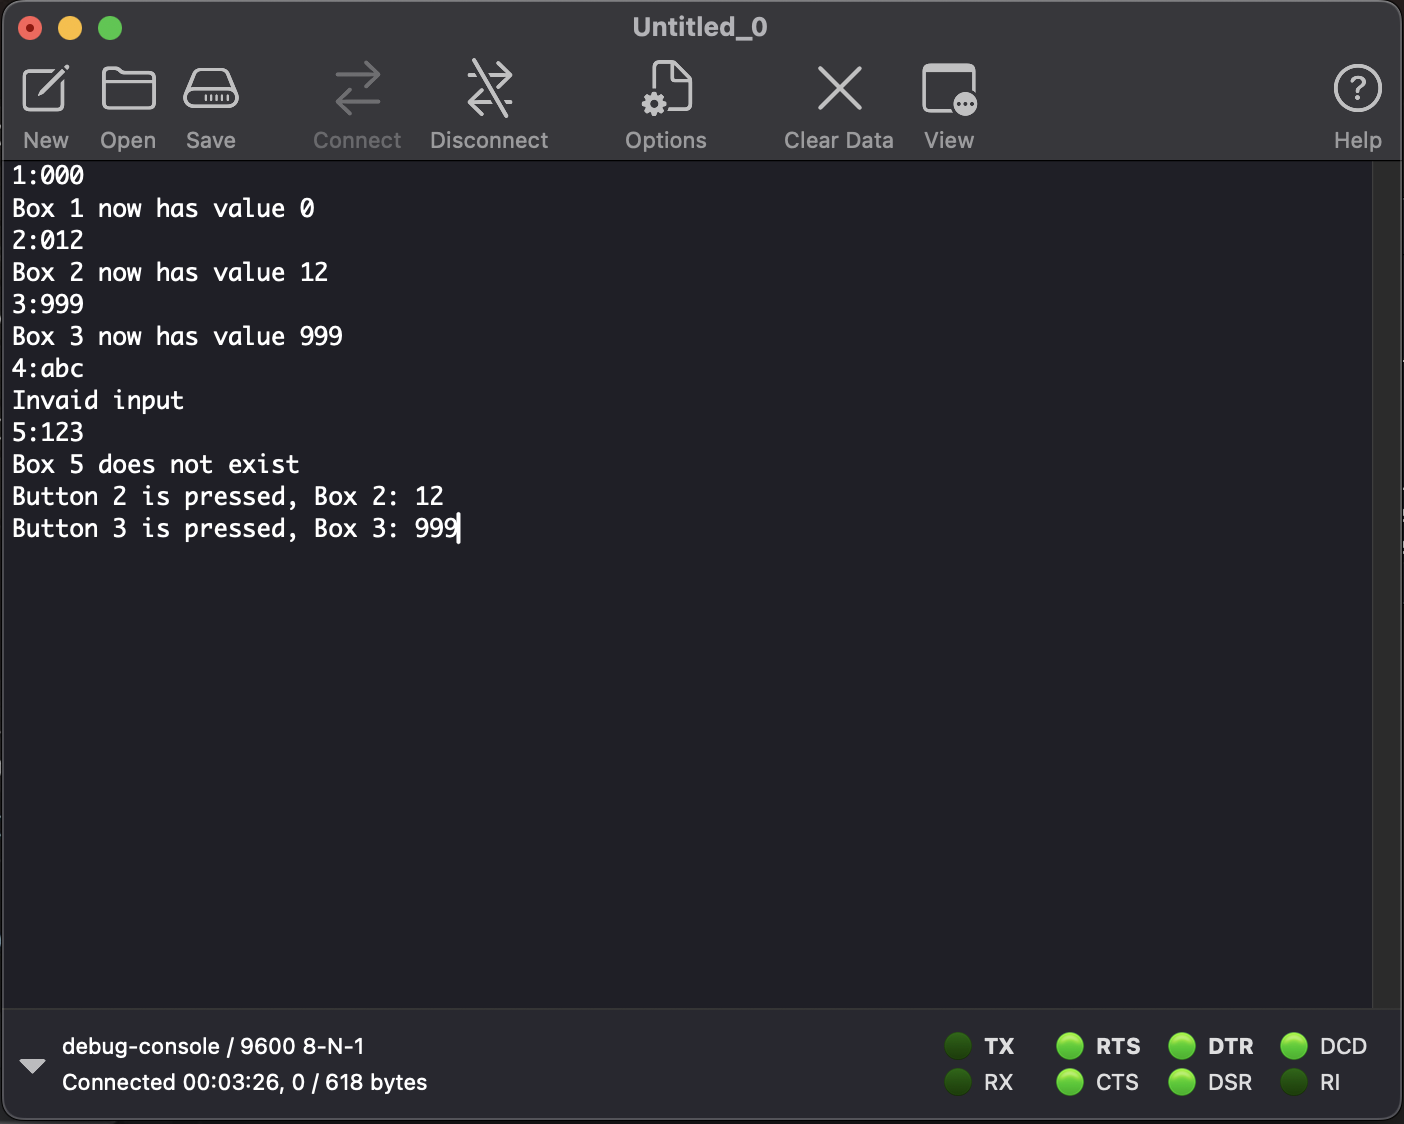
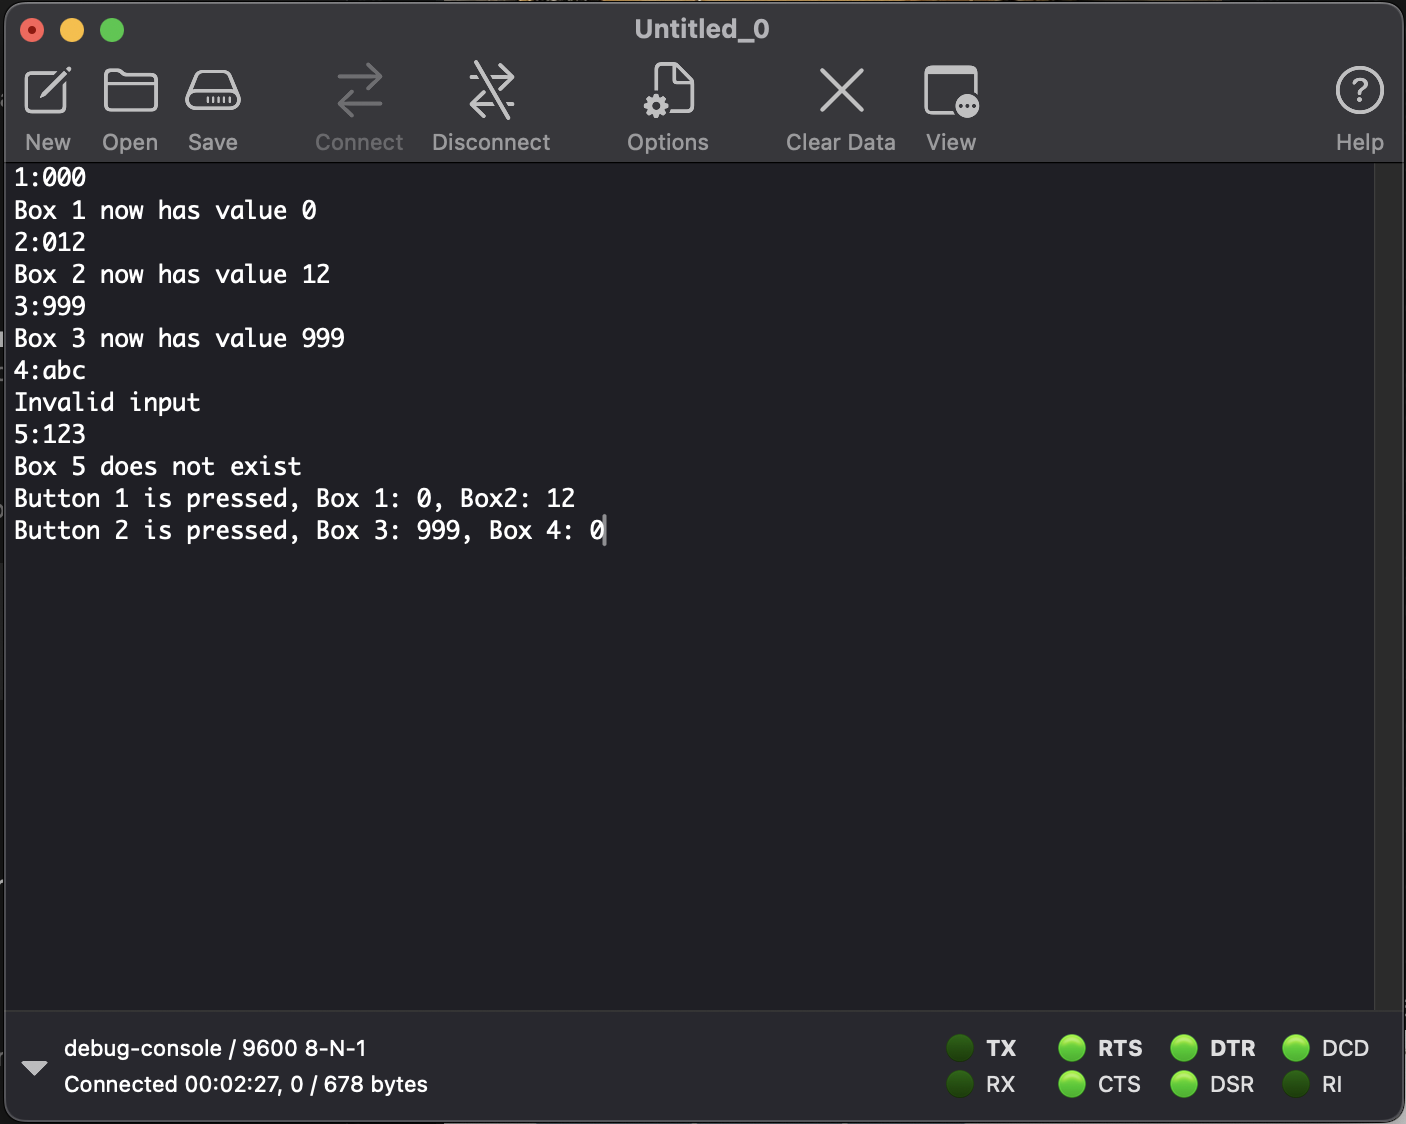
minor update

diff --git a/tutorial-2-uart/04-homework.md b/tutorial-2-uart/04-homework.md
@@ -7,10 +7,11 @@
 Configure your STM32 board to continuously send the status of all buttons to your computer using the HC-05 Bluetooth module every 100ms.
 Format the data packet as follows:
 
-`[Button 1: On/Off], [Button 2: On/Off], ... \n`
+`[Button 1: On/Off], [Button 2: On/Off]\n`
 
 ## Task 2: Bluetooth-Controlled Stopwatch
 
+:123B3
 Implement a stopwatch on your STM32 board.
 Your program should receive two commands via Bluetooth:
 
